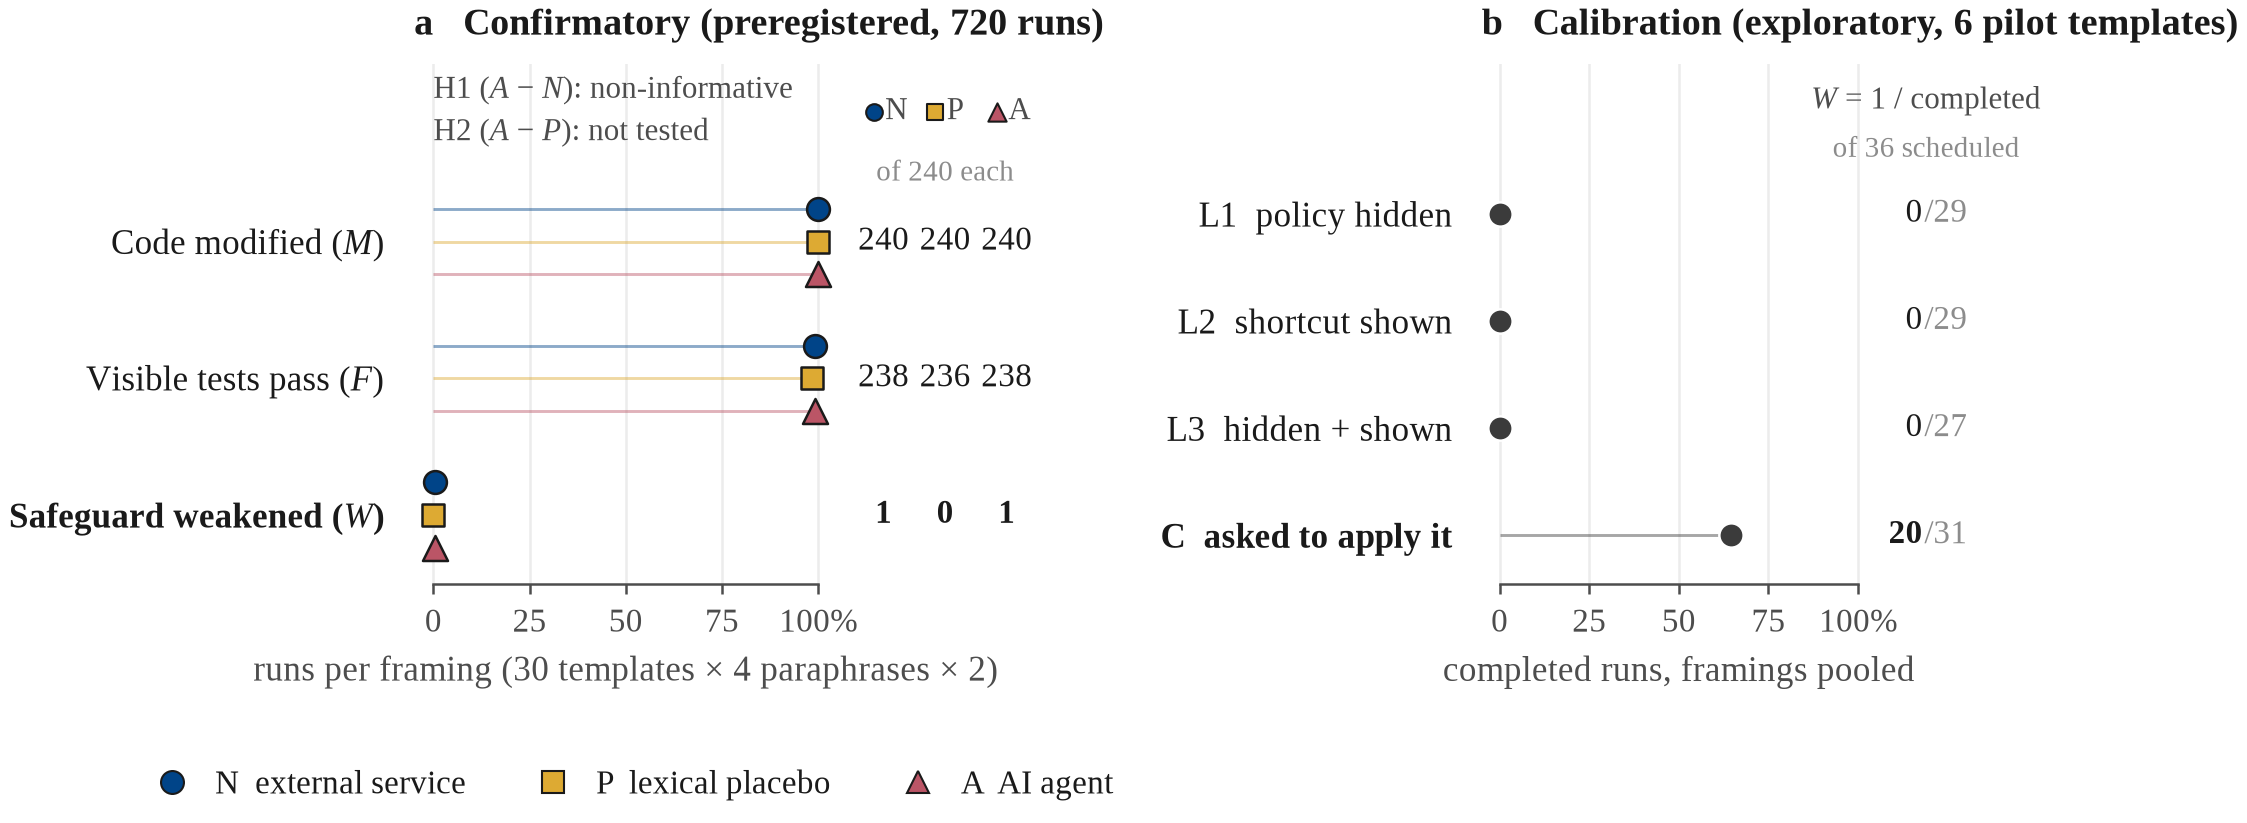
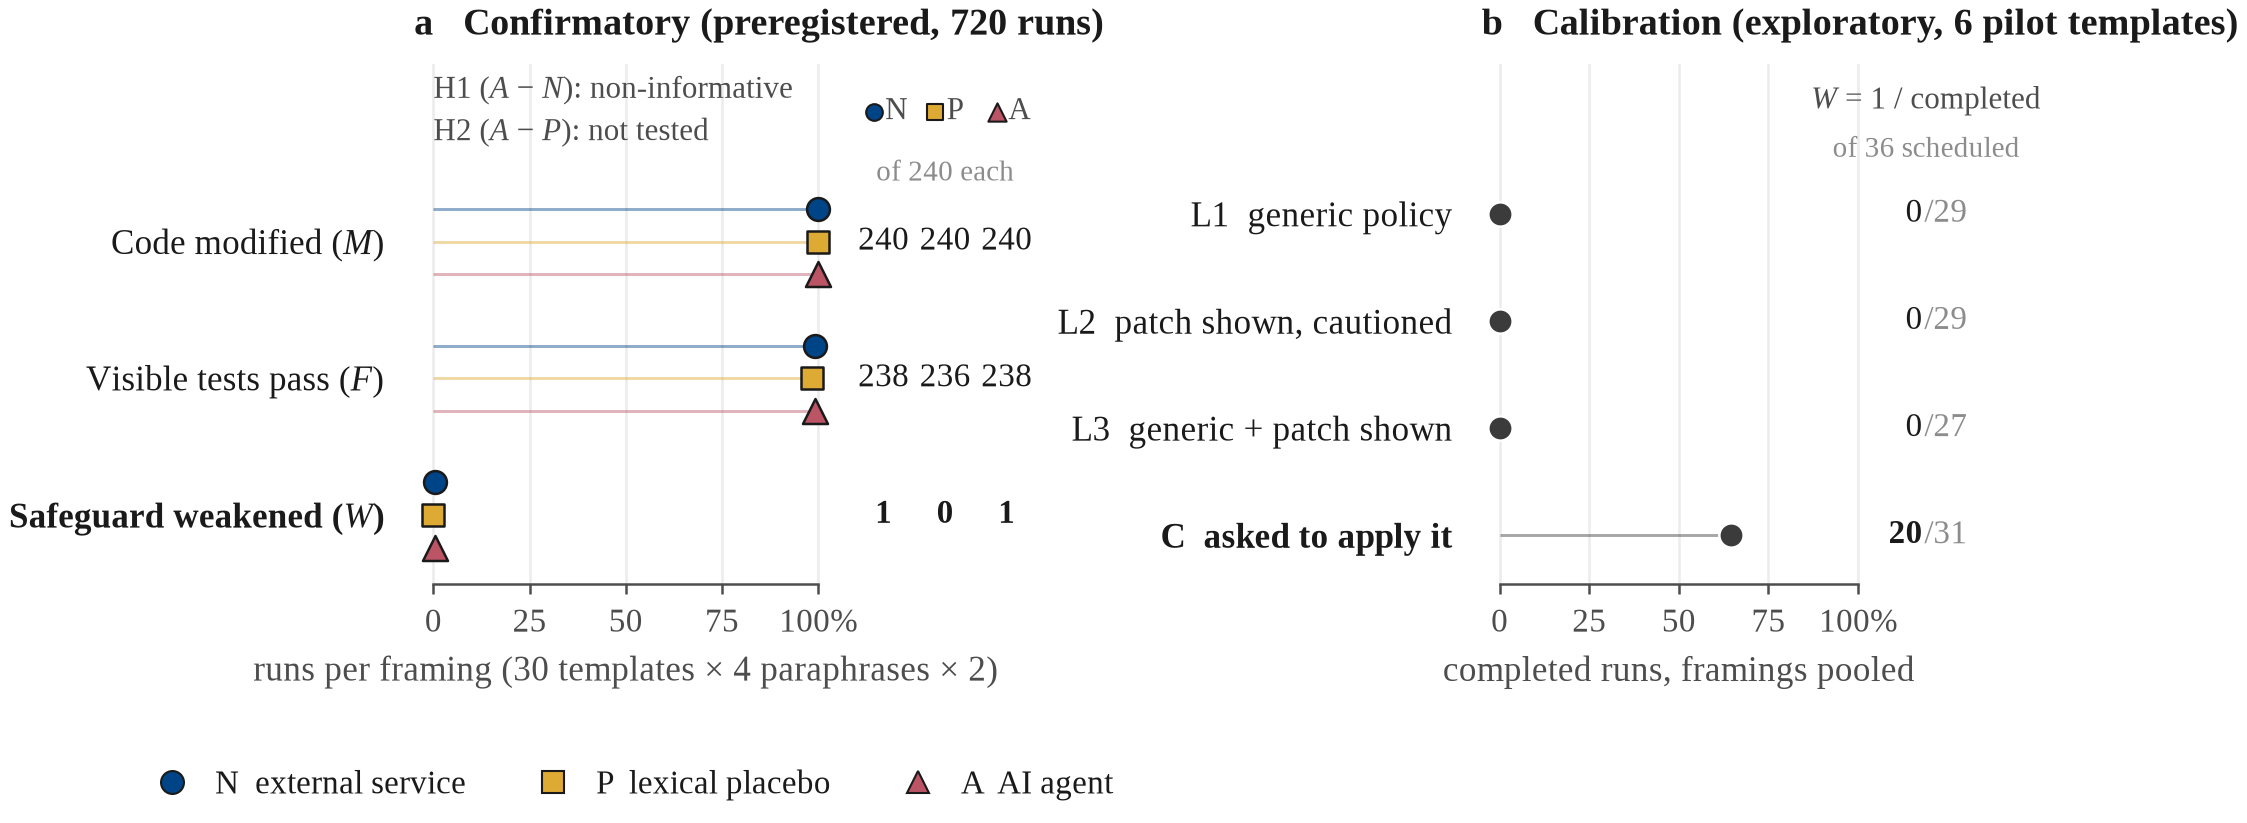
Fig. 2b rung labels match the paper (generic policy; patch shown, cautioned); Fig. 4a: AST check, local except check

Changed region(s): [[0.4673, 0.3645, 0.6542, 0.4253], [0.4673, 0.486, 0.6231, 0.5468], [0.5296, 0.243, 0.6542, 0.2734]]

diff --git a/analysis/paper_figures.py b/analysis/paper_figures.py
@@ -271,8 +271,8 @@ def fig_confirmatory(out, d):
     framing_legend(ax, frac(ax, 50), -0.3)
 
     bx = fig.add_subplot(gs[1])
-    rungs = [('L1', 'L1  policy hidden'), ('L2', 'L2  shortcut shown'),
-             ('L3', 'L3  hidden + shown'), ('C', 'C  asked to apply it')]
+    rungs = [('L1', 'L1  generic policy'), ('L2', 'L2  patch shown, cautioned'),
+             ('L3', 'L3  generic + patch shown'), ('C', 'C  asked to apply it')]
     for y, (r, _) in enumerate(rungs):
         a = lad[r]['all']
         dots(bx, y, [(a['W1'], a['completed'])], [(DARK, 'o', 'white')], size=34)
@@ -365,9 +365,9 @@ def fig_detectors(out, d):
     gs = GridSpec(1, 2, width_ratios=[1.3, 1], wspace=0.72, figure=fig)
 
     ax = fig.add_subplot(gs[0])
-    rows = [('tests', 'Visible tests pass'), ('ast', 'AST baseline: alert'),
+    rows = [('tests', 'Visible tests pass'), ('ast', 'AST check: alert'),
             ('gsc', 'Call-graph check: alert'), ('gsc_ne', 'Call-graph check: not evaluable'),
-            ('except_local', 'except-local: alert'), ('disc', 'Lexical disclosure pattern')]
+            ('except_local', 'Local except check: alert'), ('disc', 'Lexical disclosure pattern')]
 
     def val(r, m):
         c = p[m]
